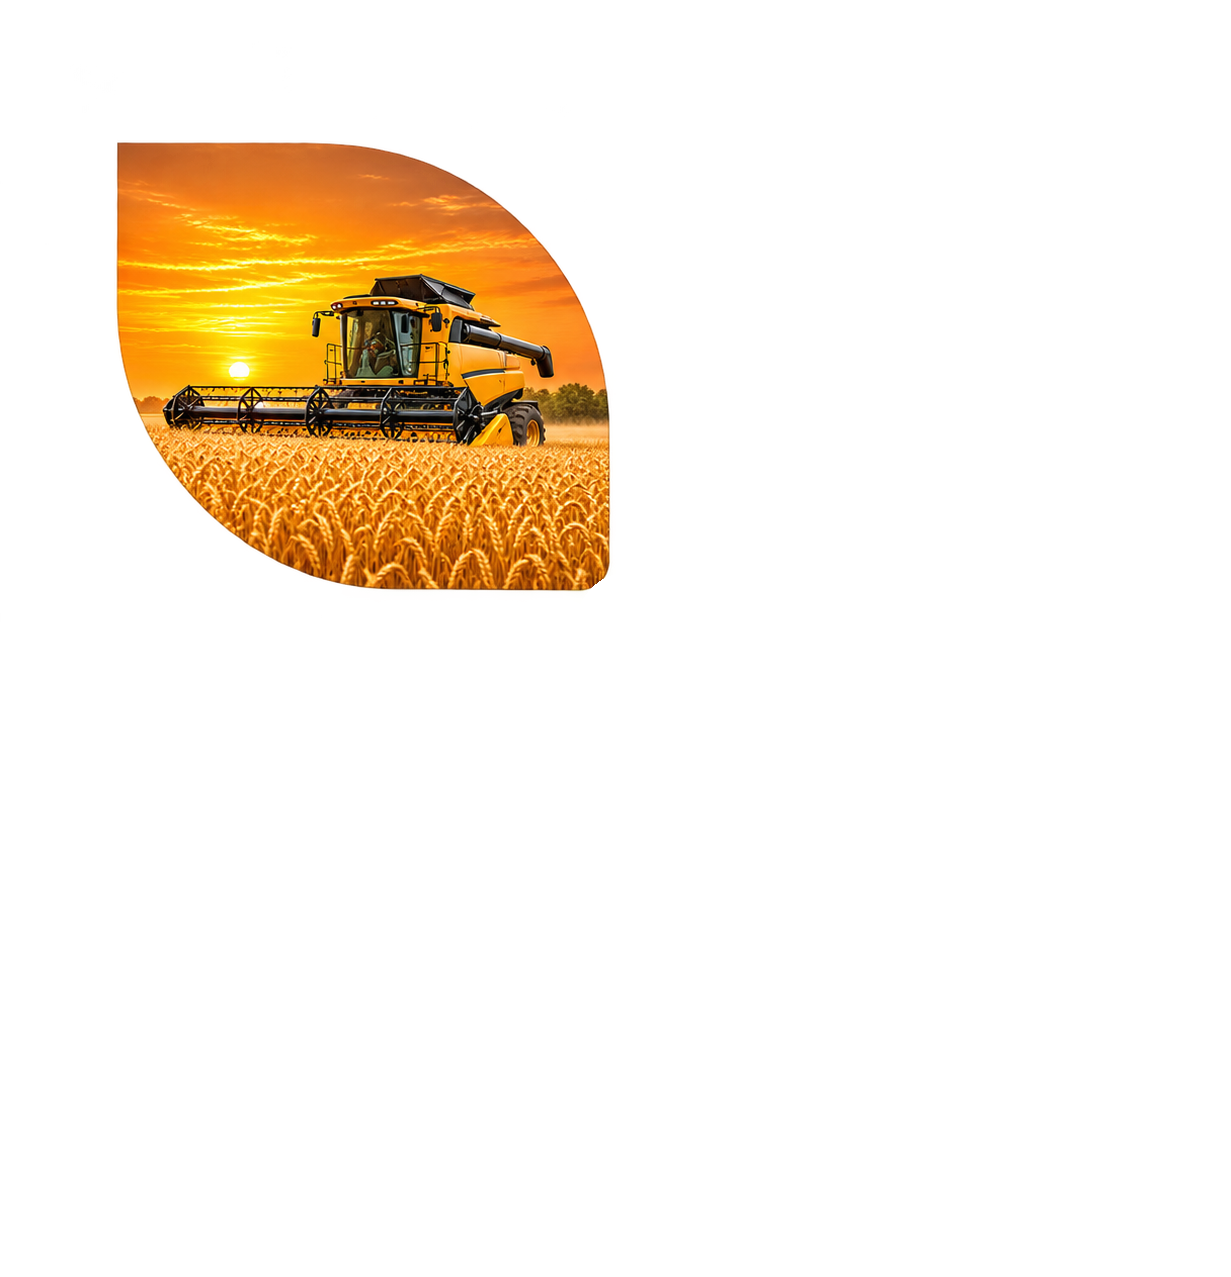
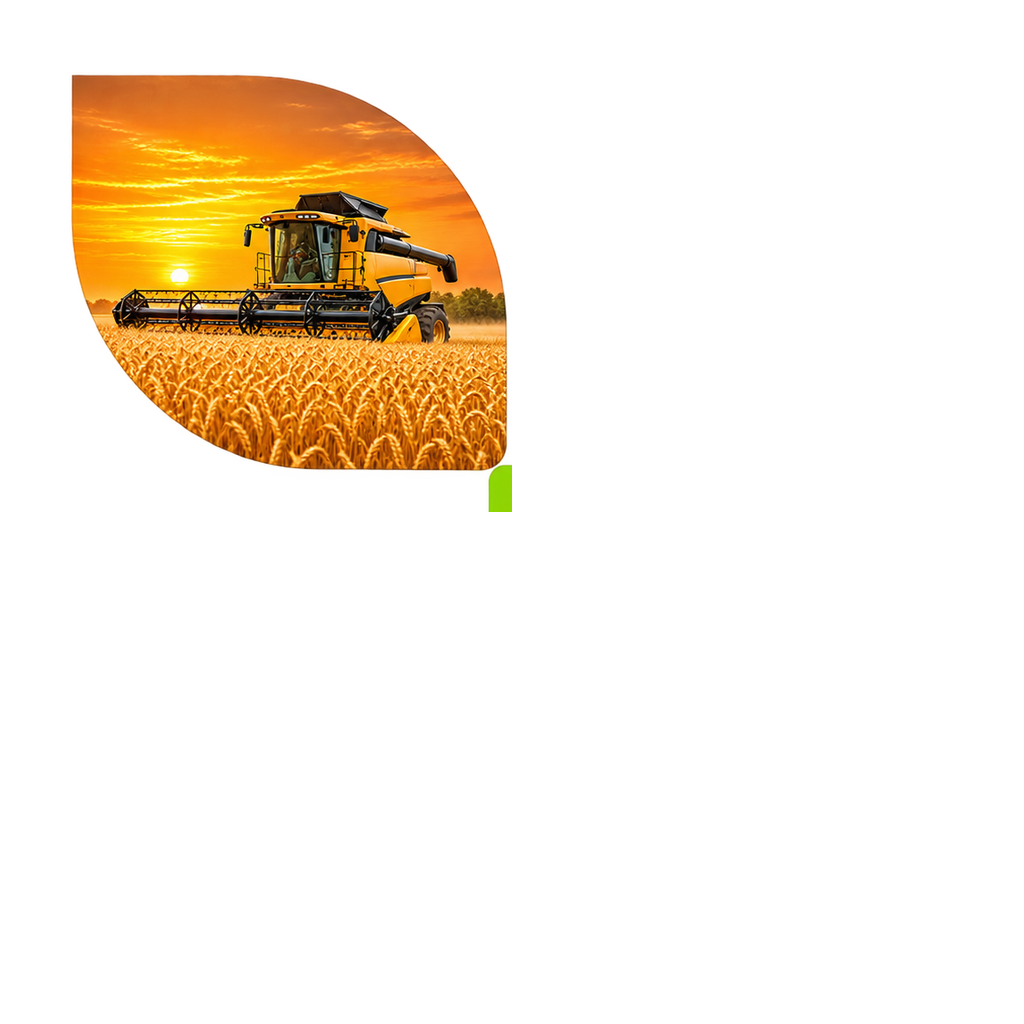
Fix desktop reveal and keep green leaves until each clip-mask reveal

Changed region(s): [[0.0625, 0.0625, 0.5, 0.5]]

diff --git a/src/components/HeroAnimatedLogo.tsx b/src/components/HeroAnimatedLogo.tsx
@@ -3,22 +3,22 @@ import { type FC, type CSSProperties } from "react";
 /**
  * Premium hero emblem loading sequence.
  *
- * 1. The solid green HASAD logo is shown first.
- * 2. It fades out and the four photographic petals of the clipping-mask
- *    emblem are revealed one after another (each wipe uses the petal's own
- *    alpha shape, so the reveal follows the real leaf contours).
- * 3. When the fourth petal completes, the full emblem holds for a few seconds.
- * 4. The petals fade out, the green logo fades back in, and the loop repeats.
+ * The green HASAD emblem and the four photographic petals are split into the
+ * same four real leaf shapes, so the reveal follows the actual leaf contours.
  *
- * The mask emblem is rendered at 80% scale with a ~10% feathered edge, as in
- * the previous approved style.
+ * 1. All four green leaves are visible.
+ * 2. One leaf at a time: its green version fades out while the matching image
+ *    leaf wipes in over it. The other three leaves stay green.
+ * 3. Once the fourth leaf is revealed the full emblem holds for a few seconds.
+ * 4. The image leaves fade out, the green leaves fade back in, and the loop
+ *    repeats forever.
  */
 export const HeroAnimatedLogo: FC<{ className?: string }> = ({
   className = "",
 }) => {
   const base = import.meta.env.BASE_URL;
-  const logoSrc = `${base}assets/brand/hasad-logo.png`;
-  const petalSrc = (n: number) => `${base}assets/brand/hasad-petal-${n}.png`;
+  const src = (prefix: string, n: number) =>
+    `${base}assets/brand/${prefix}-${n}.png`;
 
   // ~10% soft feather on the outer edge of every layer.
   const softEdge: CSSProperties = {
@@ -28,7 +28,7 @@ export const HeroAnimatedLogo: FC<{ className?: string }> = ({
       "radial-gradient(ellipse at center, black 90%, transparent 100%)",
   };
 
-  const petalWrap: CSSProperties = {
+  const wrap: CSSProperties = {
     transform: "scale(0.8)",
     transformOrigin: "center",
   };
@@ -39,72 +39,82 @@ export const HeroAnimatedLogo: FC<{ className?: string }> = ({
   return (
     <div className={`relative w-full h-full ${className}`}>
       <style>{`
-        /* Green logo: visible at the start and at the end of each cycle. */
-        @keyframes hasad-green {
-          0%   { opacity: 1; transform: scale(1); }
-          16%  { opacity: 1; transform: scale(1); }
-          25%  { opacity: 0; transform: scale(1.03); }
-          83%  { opacity: 0; transform: scale(1.03); }
-          92%  { opacity: 1; transform: scale(1); }
-          100% { opacity: 1; transform: scale(1); }
+        /* Green leaves stay until their matching image leaf is revealed. */
+        @keyframes hasad-green-1 {
+          0%,25%   { opacity: 1; }
+          34%,83%  { opacity: 0; }
+          92%,100% { opacity: 1; }
+        }
+        @keyframes hasad-green-2 {
+          0%,34%   { opacity: 1; }
+          43%,83%  { opacity: 0; }
+          92%,100% { opacity: 1; }
+        }
+        @keyframes hasad-green-3 {
+          0%,43%   { opacity: 1; }
+          52%,83%  { opacity: 0; }
+          92%,100% { opacity: 1; }
+        }
+        @keyframes hasad-green-4 {
+          0%,52%   { opacity: 1; }
+          61%,83%  { opacity: 0; }
+          92%,100% { opacity: 1; }
         }
 
-        /* Each petal is wiped in on its own cue, held, then faded out. */
+        /* Image leaves wipe in on their cue, hold, then fade out. */
         @keyframes hasad-petal-1 {
-          0%, 25%  { clip-path: inset(100% 0 0 0); opacity: 1; }
-          34%, 83% { clip-path: inset(0 0 0 0);   opacity: 1; }
+          0%,25%   { clip-path: inset(100% 0 0 0); opacity: 1; }
+          34%,83%  { clip-path: inset(0 0 0 0);   opacity: 1; }
           92%,100% { clip-path: inset(0 0 0 0);   opacity: 0; }
         }
         @keyframes hasad-petal-2 {
-          0%, 34%  { clip-path: inset(100% 0 0 0); opacity: 1; }
-          43%, 83% { clip-path: inset(0 0 0 0);   opacity: 1; }
+          0%,34%   { clip-path: inset(100% 0 0 0); opacity: 1; }
+          43%,83%  { clip-path: inset(0 0 0 0);   opacity: 1; }
           92%,100% { clip-path: inset(0 0 0 0);   opacity: 0; }
         }
         @keyframes hasad-petal-3 {
-          0%, 43%  { clip-path: inset(100% 0 0 0); opacity: 1; }
-          52%, 83% { clip-path: inset(0 0 0 0);   opacity: 1; }
+          0%,43%   { clip-path: inset(100% 0 0 0); opacity: 1; }
+          52%,83%  { clip-path: inset(0 0 0 0);   opacity: 1; }
           92%,100% { clip-path: inset(0 0 0 0);   opacity: 0; }
         }
         @keyframes hasad-petal-4 {
-          0%, 52%  { clip-path: inset(100% 0 0 0); opacity: 1; }
-          61%, 83% { clip-path: inset(0 0 0 0);   opacity: 1; }
+          0%,52%   { clip-path: inset(100% 0 0 0); opacity: 1; }
+          61%,83%  { clip-path: inset(0 0 0 0);   opacity: 1; }
           92%,100% { clip-path: inset(0 0 0 0);   opacity: 0; }
         }
 
-        .hasad-green   { animation: hasad-green 12s ease-in-out infinite; }
+        .hasad-green-1 { animation: hasad-green-1 12s ease-in-out infinite; }
+        .hasad-green-2 { animation: hasad-green-2 12s ease-in-out infinite; }
+        .hasad-green-3 { animation: hasad-green-3 12s ease-in-out infinite; }
+        .hasad-green-4 { animation: hasad-green-4 12s ease-in-out infinite; }
         .hasad-petal-1 { animation: hasad-petal-1 12s ease-in-out infinite; }
         .hasad-petal-2 { animation: hasad-petal-2 12s ease-in-out infinite; }
         .hasad-petal-3 { animation: hasad-petal-3 12s ease-in-out infinite; }
         .hasad-petal-4 { animation: hasad-petal-4 12s ease-in-out infinite; }
-
-        @media (prefers-reduced-motion: reduce) {
-          .hasad-green   { animation: none; opacity: 1; }
-          .hasad-petal-1,
-          .hasad-petal-2,
-          .hasad-petal-3,
-          .hasad-petal-4 { animation: none; opacity: 0; }
-        }
       `}</style>
 
-      {/* Solid green HASAD logo — first and last frame of the cycle */}
-      <img
-        src={logoSrc}
-        alt="HASAD"
-        aria-hidden="true"
-        loading="eager"
-        style={softEdge}
-        className={`hasad-green absolute inset-0 w-full h-full object-contain ${shadow}`}
-      />
-
-      {/* Clipping-mask emblem: four real petal shapes revealed sequentially */}
       <div
         className="pointer-events-none absolute inset-0 flex items-center justify-center"
-        style={petalWrap}
+        style={wrap}
       >
+        {/* Layer 1 — the four solid green leaves */}
         {[1, 2, 3, 4].map((n) => (
           <img
-            key={n}
-            src={petalSrc(n)}
+            key={`g${n}`}
+            src={src("hasad-gpetal", n)}
+            alt={n === 1 ? "HASAD" : ""}
+            aria-hidden={n !== 1}
+            loading="eager"
+            style={softEdge}
+            className={`hasad-green-${n} absolute inset-0 w-full h-full object-contain ${shadow}`}
+          />
+        ))}
+
+        {/* Layer 2 — image leaves revealed one by one over the green ones */}
+        {[1, 2, 3, 4].map((n) => (
+          <img
+            key={`p${n}`}
+            src={src("hasad-petal", n)}
             alt=""
             aria-hidden="true"
             loading="eager"
